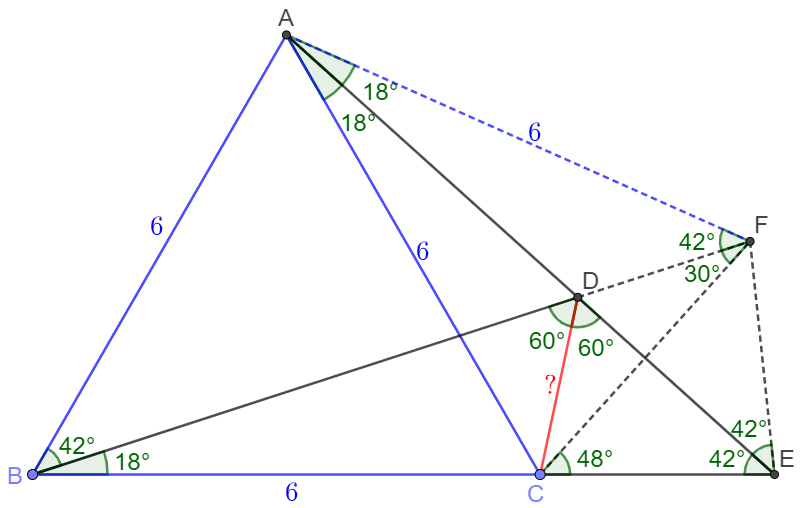
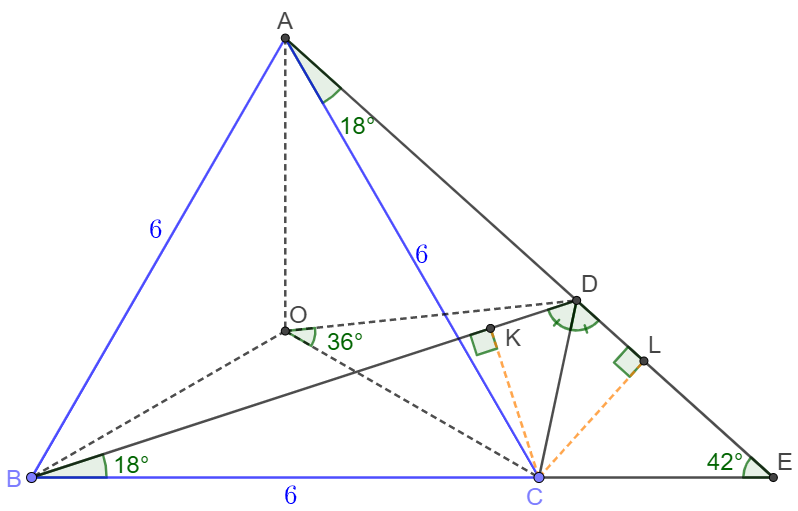
add posts

diff --git a/_posts/2021-11-07-nov-2021-problems.md b/_posts/2021-11-07-nov-2021-problems.md
@@ -439,15 +439,13 @@ $\implies AB+DM=\dfrac{AB+AC}{2} \implies AD+DM=AM=\dfrac{AB+AC}{2}\blacksquare$
 
 **Solve:**
 
-Let $F$ be the mirror point of $C$ along $AE$. Connect $AF, EF, CF, DF$.
+From $C$ make $CK\perp BD, CL\perp DE$. Let $O$ be the circumcenter of $\triangle{ABC}$, connect $OD$.
 
-![image-20211120022945468](/assets/images/2021-11/image-20211120022106717.png)
+![image-20211120154951049](/assets/images/2021-11/image-20211120022106717.png)
 
-$AB=AC=BC=AF, \angle{BAF}=60^{\circ}+2*(60^{\circ}-42^{\circ})=92^{\circ} \implies \angle{FBA}=\angle{AFB}=42^{\circ} \implies \angle{DBC}=18^{\circ} \implies \text{ABCD are cyclic}$
+$CD$ bisects $\angle{BDE} \implies CK=CL$, and $BC=AC \implies \triangle{BCK} \cong \triangle{ACL} \implies \angle{CBD}=\angle{CAD}=60^{\circ}-42^{\circ}=18^{\circ}$
 
-$\implies \angle{BCD}=\angle{BAC}=60^{\circ}\implies \angle{CDE}=60^{\circ} \implies \text{CD bisects } \angle{BDE}$
-
-$AC=AF=6, \angle{ACF}=36^{\circ} \implies CF=\dfrac{2AC}{\sqrt{5}+1} \implies CD=\dfrac{2*6}{\sqrt{3}(\sqrt{5}+1)}=\boxed{\sqrt{15}-\sqrt{3}}$
+$  \implies \text{ABCD are cyclic} \implies \angle{COD}=2*18^{\circ}=36^{\circ} \implies CD=\dfrac{2*OC}{\sqrt{5}+1}=\dfrac{2AC}{\sqrt{3}(\sqrt{5}+1)}=\dfrac{2*6}{\sqrt{3}(\sqrt{5}+1)}=\boxed{\sqrt{15}-\sqrt{3}}$
 
 ---
 
